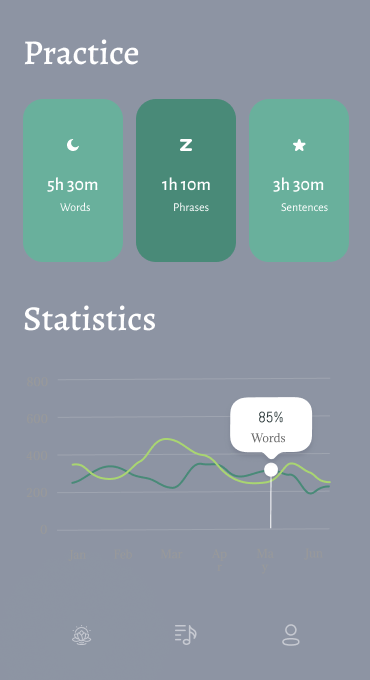
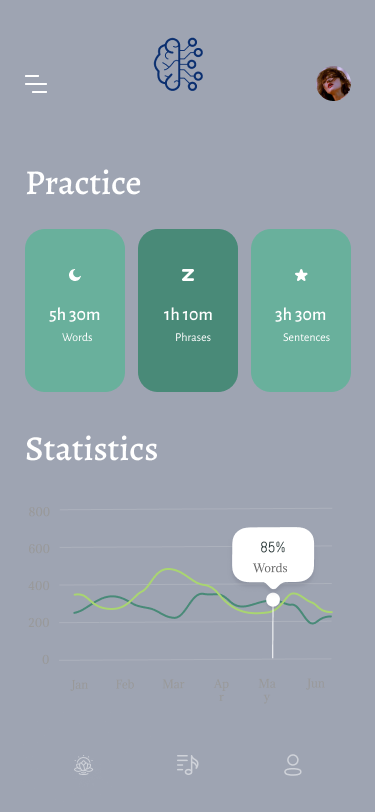
Coded Phrases and Stats

diff --git a/HelloWorld/Words.js b/HelloWorld/Words.js
@@ -14,6 +14,7 @@ mic.lang = 'en-US'
 export default function Words(props) {
   const [isListening, setIsListening] = useState(false);
   const [note, setNote] = useState(null);
+  const [result, setResult] = useState(null);
 
   useEffect(() => {
     handleListen()
@@ -43,11 +44,13 @@ export default function Words(props) {
         .join('')
       console.log(transcript)
       setNote(transcript)
+      
       mic.onerror = event => {
         console.log(event.error)
       }
     }
   }
+
 
   return (
     <View style={styles.container}>
@@ -56,14 +59,19 @@ export default function Words(props) {
     </Pressable>
     <View style={styles.Wordsimage}><img src={require('./Pictures/Wordspic.png')} /></View>
     <Pressable style={styles.record} onPress={() => setIsListening(prevState => !prevState)}>
-    <View style={styles.image}><img src={isListening ? require('./Pictures/Stop.png') : require('./Pictures/Play.png')} /></View>
+    <View style={styles.image}><img src={isListening ? require('./Pictures/Stop.png') : require('./Pictures/Play.png'), require('./Pictures/Polygon 1.png')} /></View>
     </Pressable>
     <View style={styles.textcontainer}><Text style={styles.textoutput}>{note}</Text></View>
-
+    <View style={styles.resultscontainer}><Text style={styles.resultsoutput}>{result}</Text></View>
     </View>
 
   );
 }
+
+
+
+
+
 const styles = StyleSheet.create({
     container: {
         flex: 1,

diff --git a/HelloWorld/Phrases.js b/HelloWorld/Phrases.js
@@ -5,11 +5,38 @@ import React, { useState } from 'react';
 export default function Phrases(props) {
     return (
       <View style={styles.container}>
+        <Pressable style={styles.logo} onPress={() => { props.changeView('Menu'); } }>
+      <View style={styles.image}><img src={require('./Pictures/logosmall.png')} /></View>
+      </Pressable>
+      <View style={styles.phraseimg}> <img src={require('./Pictures/Phrases.png')} /></View>
       </View>
   
     );
   }
   const styles = StyleSheet.create({
-    
+  container: {
+    flex: 1,
+    backgroundColor: '#9EA4B2',
+    alignItems: 'center',
+    justifyContent:'flex-start',
+  },
+  
+  logo: {
+    top:'6%',
+    position:'absolute',
+  },
+
+  image: {
+    backgroundColor:'#9EA4B2',
+    width: 69,
+    length: 59, 
+  },
+
+  phraseimg: {
+    height: '90%',
+    width: '100%',
+    top:'15%',
+
+  },
 
 })

diff --git a/HelloWorld/Stats.js b/HelloWorld/Stats.js
@@ -21,7 +21,6 @@ const styles = StyleSheet.create({
     justifyContent:'flex-start',
 },
     statsimg: {
-      top : 175
 
     }
 
